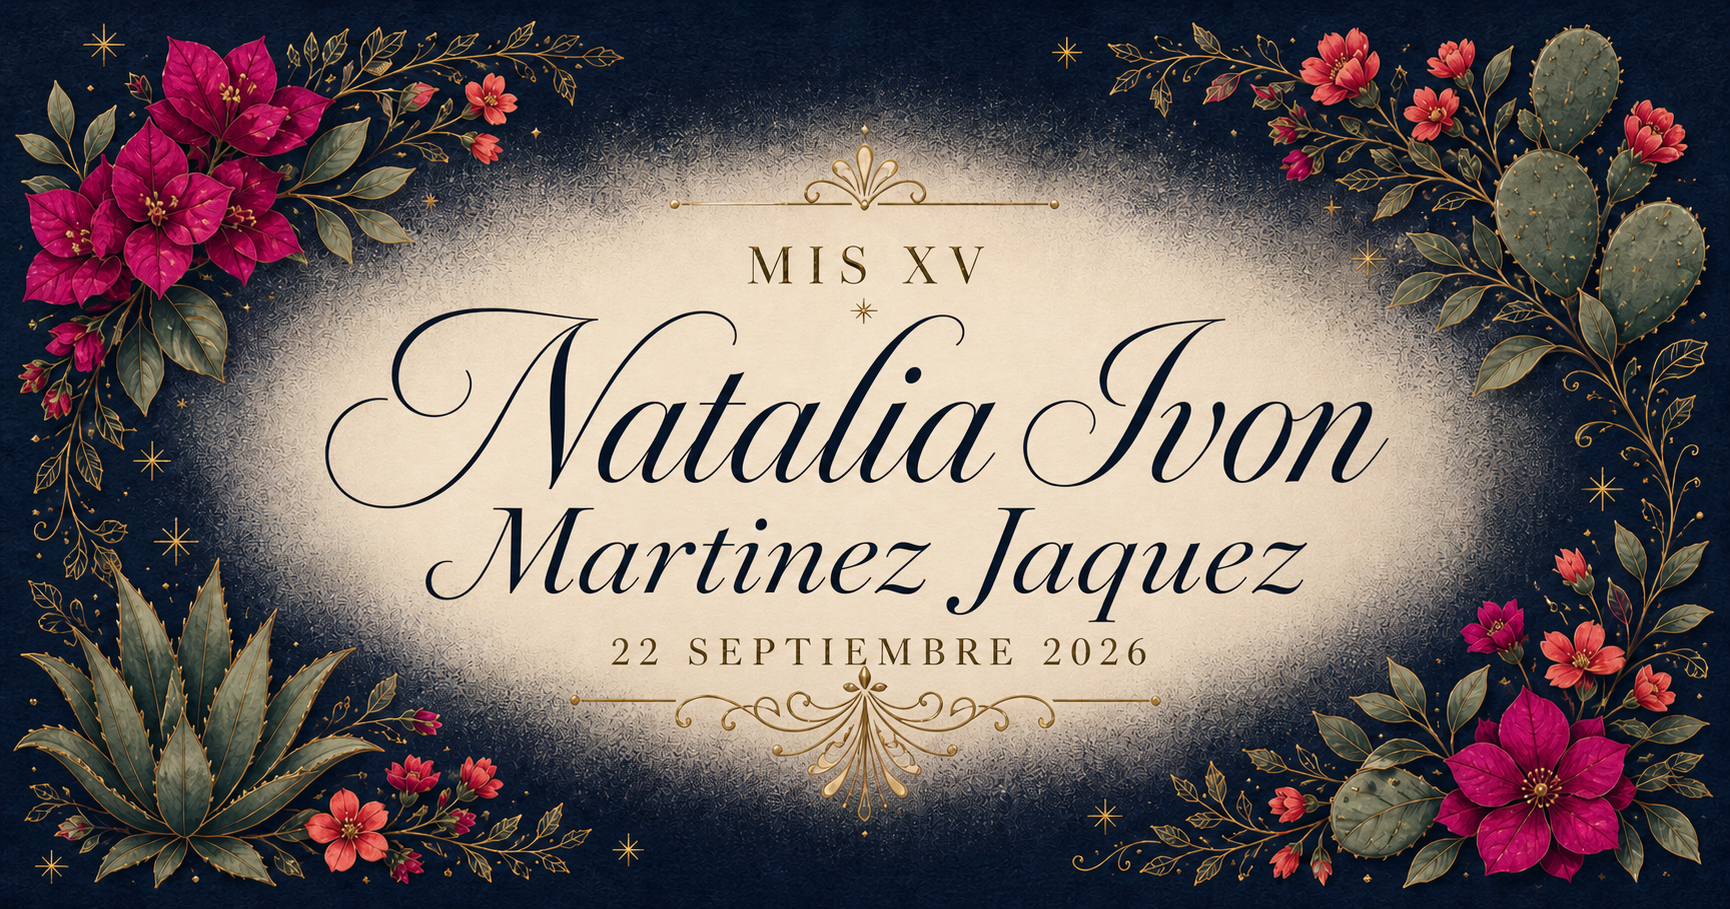
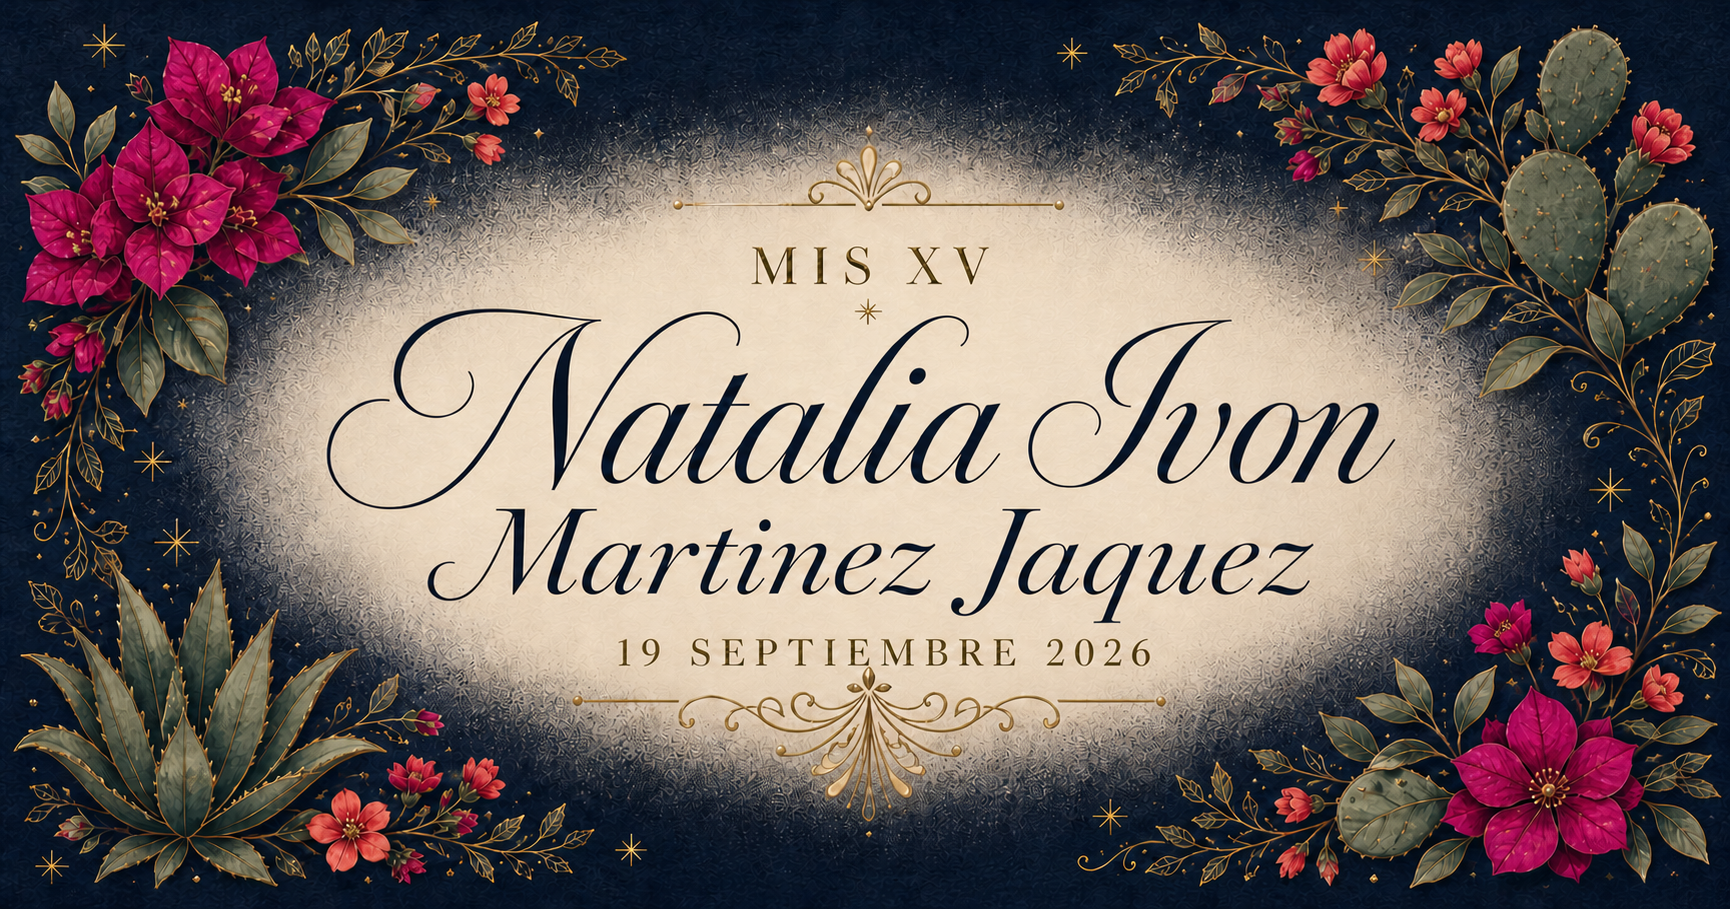
Update event date to September 19

diff --git a/app/layout.tsx b/app/layout.tsx
@@ -26,14 +26,14 @@ export async function generateMetadata(): Promise<Metadata> {
   return {
     metadataBase: new URL(baseUrl),
     title: "Mis XV · Natalia Ivon Martinez Jaquez",
-    description: "Acompáñame a celebrar mis quince años el 22 de septiembre de 2026 en San Carlos Garden.",
+    description: "Acompáñame a celebrar mis quince años el 19 de septiembre de 2026 en San Carlos Garden.",
     icons: {
       icon: "/naty-caballo-vertical.jpeg",
       apple: "/naty-caballo-vertical.jpeg",
     },
     openGraph: {
       title: "Mis XV · Natalia Ivon Martinez Jaquez",
-      description: "22 de septiembre de 2026 · 8:00 p. m. · San Carlos Garden, Delicias.",
+      description: "19 de septiembre de 2026 · 8:00 p. m. · San Carlos Garden, Delicias.",
       type: "website",
       locale: "es_MX",
       images: [{ url: socialImage, width: 1730, height: 909, alt: "Mis XV · Natalia Ivon Martinez Jaquez" }],
@@ -41,7 +41,7 @@ export async function generateMetadata(): Promise<Metadata> {
     twitter: {
       card: "summary_large_image",
       title: "Mis XV · Natalia Ivon Martinez Jaquez",
-      description: "22 de septiembre de 2026 · 8:00 p. m. · San Carlos Garden, Delicias.",
+      description: "19 de septiembre de 2026 · 8:00 p. m. · San Carlos Garden, Delicias.",
       images: [socialImage],
     },
   };

diff --git a/app/page.tsx b/app/page.tsx
@@ -2,10 +2,10 @@ import { MusicExperience } from "./MusicExperience";
 
 const mapUrl = "https://www.google.com/maps/place/San+Carlos+Garden/@28.2146466,-105.4858718,1078m/data=!3m2!1e3!4b1!4m6!3m5!1s0x86eb15c7ab30ec25:0xd8398acbe2d83d3c!8m2!3d28.2146466!4d-105.4832969!16s%2Fg%2F11srnj8490?entry=ttu&g_ep=EgoyMDI2MDgxMS4wIKXMDSoASAFQAw%3D%3D";
 
-const googleCalendarUrl = "https://calendar.google.com/calendar/render?action=TEMPLATE&text=Mis+XV+de+Natalia+Ivon+Martinez+Jaquez&dates=20260922T200000%2F20260922T235900&ctz=America%2FChihuahua&details=Acompa%C3%B1ame+a+celebrar+mis+quince+a%C3%B1os.&location=San+Carlos+Garden%2C+Delicias%2C+Chihuahua";
+const googleCalendarUrl = "https://calendar.google.com/calendar/render?action=TEMPLATE&text=Mis+XV+de+Natalia+Ivon+Martinez+Jaquez&dates=20260919T200000%2F20260919T235900&ctz=America%2FChihuahua&details=Acompa%C3%B1ame+a+celebrar+mis+quince+a%C3%B1os.&location=San+Carlos+Garden%2C+Delicias%2C+Chihuahua";
 
 const details = [
-  { label: "Fecha", value: "22 de septiembre", note: "2026", accent: "22" },
+  { label: "Fecha", value: "19 de septiembre", note: "2026", accent: "19" },
   { label: "Hora", value: "8:00 p. m.", note: "A partir de", accent: "08" },
   { label: "Lugar", value: "San Carlos Garden", note: "Delicias, Chihuahua", accent: "SC", href: mapUrl },
 ];

diff --git a/app/MusicExperience.tsx b/app/MusicExperience.tsx
@@ -46,7 +46,7 @@ export function MusicExperience() {
             <p className="entry-xv">Mis XV</p>
             <h2 id="entry-title">Natalia Ivon</h2>
             <p className="entry-last-name">Martinez Jaquez</p>
-            <p className="entry-date">22 · Septiembre · 2026</p>
+            <p className="entry-date">19 · Septiembre · 2026</p>
             <button type="button" onClick={beginInvitation}>
               <span aria-hidden="true">♫</span>
               Abrir invitación
